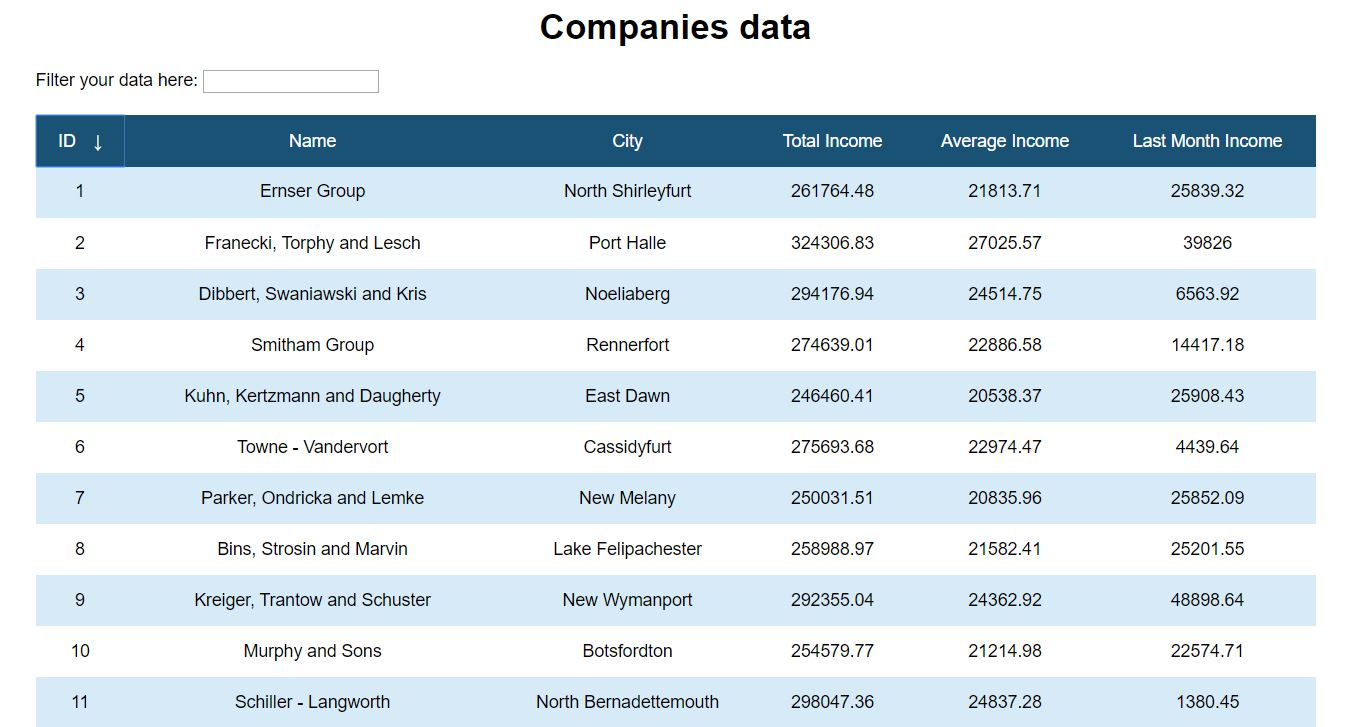
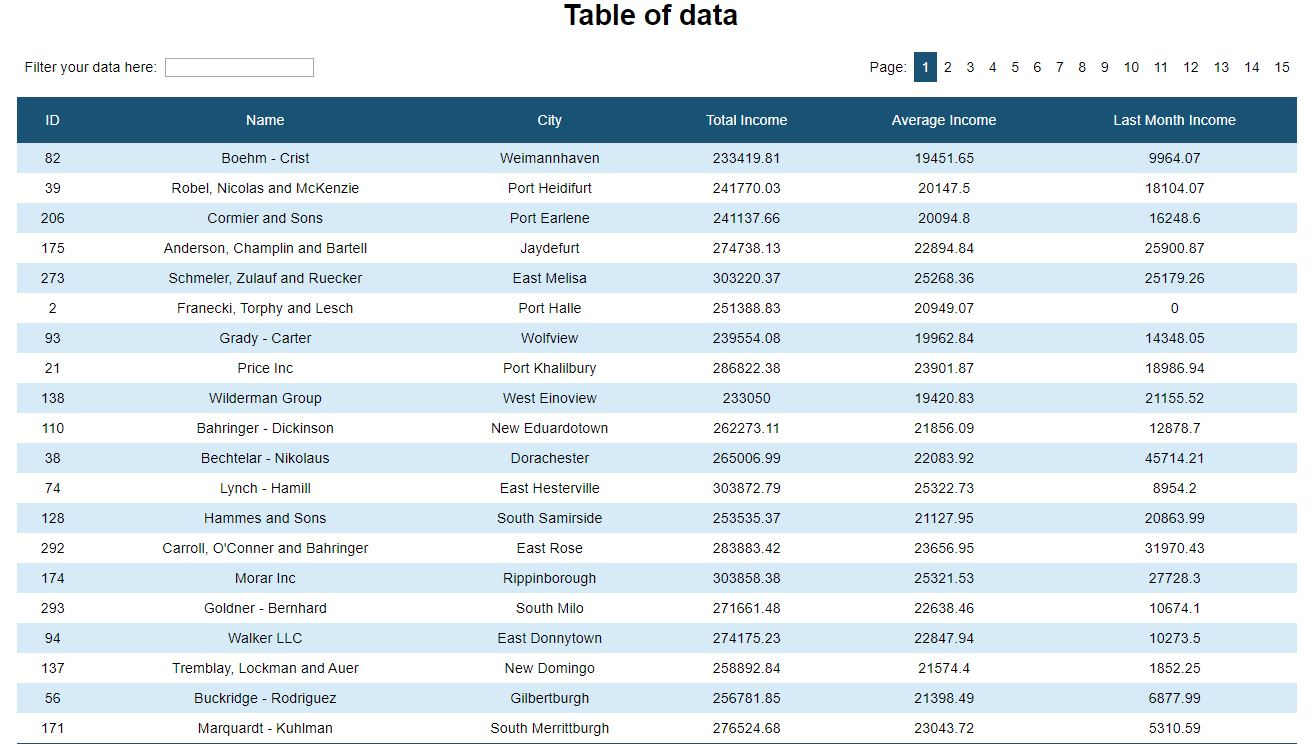
updated README.md

diff --git a/README.md b/README.md
@@ -1,5 +1,6 @@
 ## Table of contents
 * [General info](#general-info)
+* [Live demo](#live demo)
 * [Technologies](#technologies)
 * [Features](#features)
 * [Setup](#setup)
@@ -7,6 +8,9 @@
 
 ## General info
 This project builds table for companies data, including: company id, name, city, total income, average income and last month income. 
+
+## Live demo 
+You can find this project here: https://sylwiasuwalska.github.io/table-for-companies/ 
 
 ![view_from_screen](./viewScreen.JPG)
 
@@ -21,8 +25,7 @@ Project is created using:
 * sorting by ascending or descending order after click on header by given column with indicators of sort order
 * filtering by all fields of table
 * responsive layout for comfortable viewing from smaller devices
-	
-![view_from_screen](./viewMobile.JPG)
+* pagination
 	
 ## Setup
 To run this project, install it locally using npm:
@@ -42,3 +45,4 @@ $ npm start
 
 ## Sources
 * loading spinner comes from https://loading.io/
+
